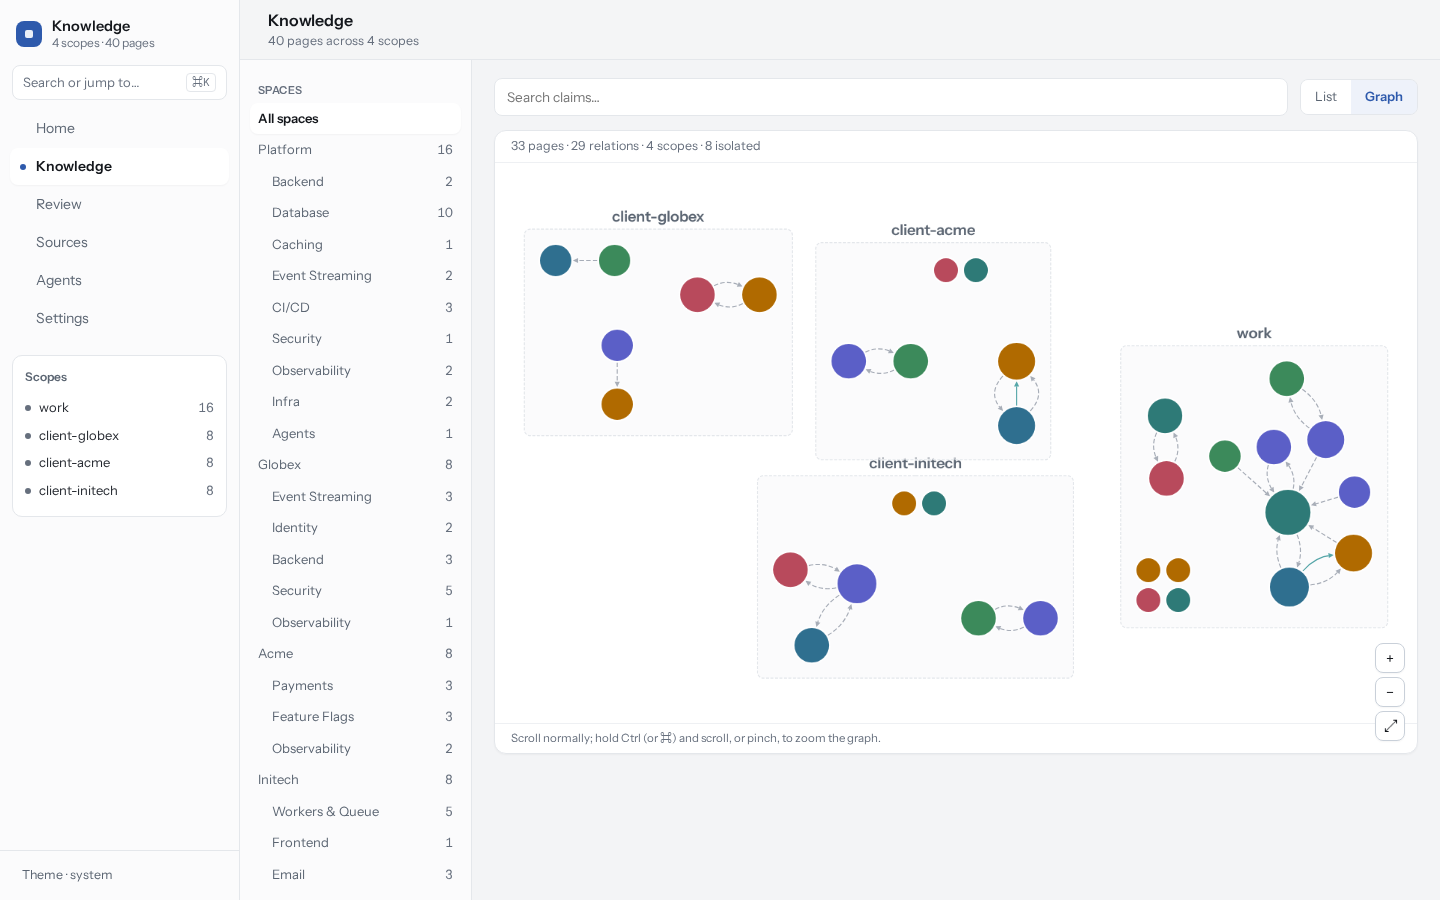
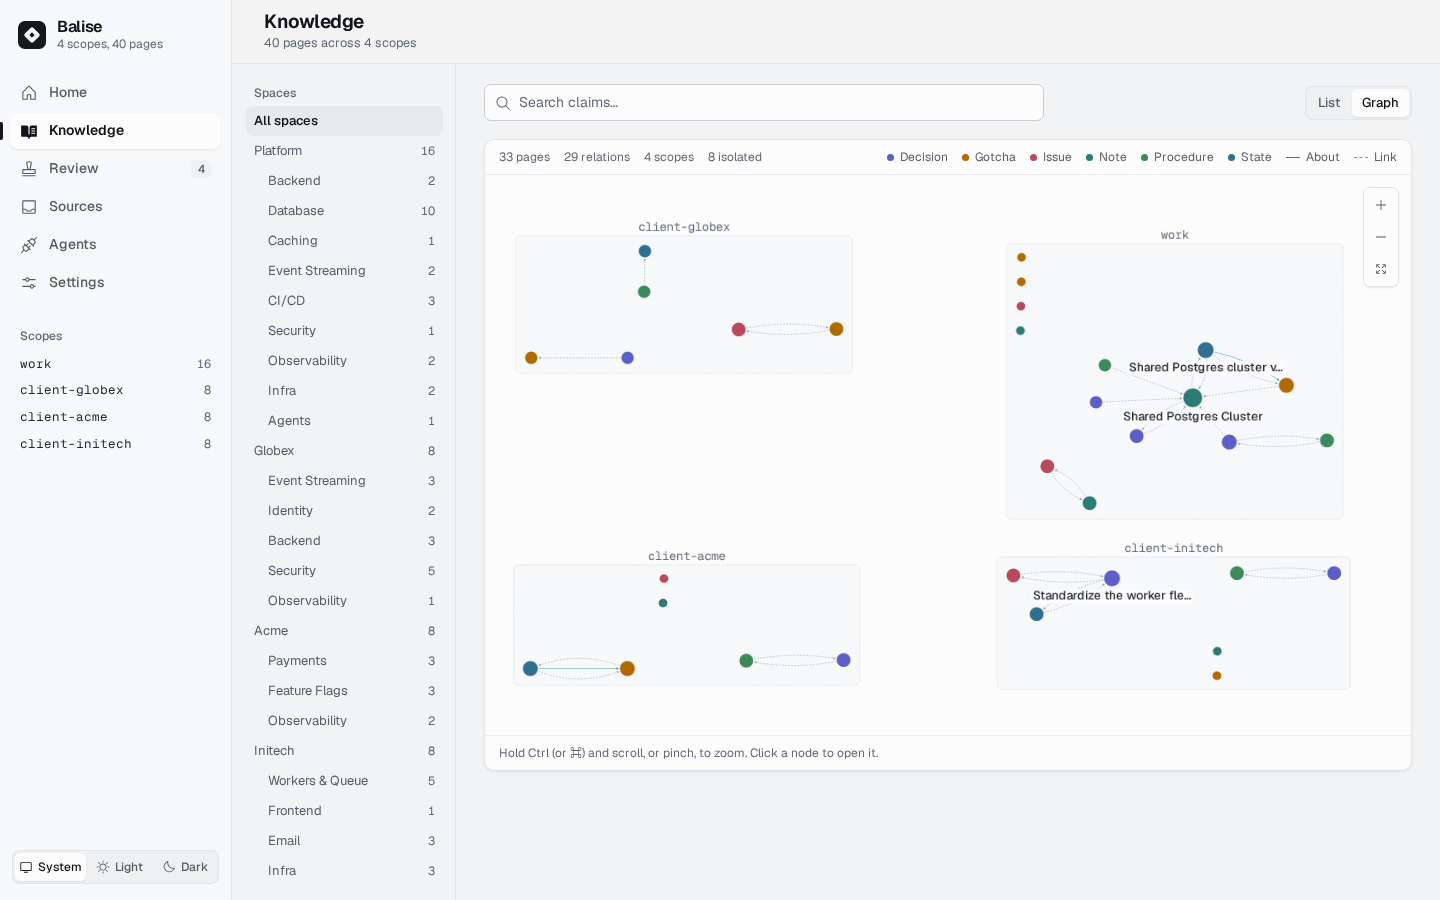
docs: regenerate README media for the redesigned UI
All screenshots and both GIFs recaptured from the seeded demo vault.
The review GIF now keeps the proposal on screen before Accept: with a
single click event, screencli trimmed everything before it as idle, so
the clip opened on the queue already advanced. Alt text updated to the
new layouts, and the tour alt text now names the query it actually runs.

diff --git a/README.md b/README.md
@@ -14,7 +14,7 @@ Your notes are markdown files in a git repo. Balise indexes them into Postgres, 
 AI agents over MCP with per-agent scoping, and gives you a web UI to review what the agents want
 to change — before anything is written.
 
-<img src="docs/media/tour.gif" alt="Searching claims for 'failover', opening the matching page in the reader, then switching to the relation graph" width="800">
+<img src="docs/media/tour.gif" alt="Asking 'cannot log in after group change' in plain words, opening the top matching page in the reader, then switching to the relation graph and zooming" width="800">
 
 </div>
 
@@ -69,12 +69,12 @@ byte for byte.
 
 <table>
 <tr>
-<td width="50%"><img src="docs/media/home.png" alt="The Home screen: a greeting, four claim proposals waiting for a decision grouped by space, two lint findings needing attention, and a list of recently changed pages"></td>
-<td width="50%"><img src="docs/media/knowledge.png" alt="The Knowledge screen: a space tree with per-space page counts on the left and claim-level search results grouped by page type"></td>
+<td width="50%"><img src="docs/media/home.png" alt="The Home screen: a greeting and one-line summary, four claim proposals waiting for a decision grouped by scope, one lint finding needing attention, and a timeline of recently changed pages"></td>
+<td width="50%"><img src="docs/media/knowledge.png" alt="The Knowledge screen: a space tree with per-space page counts on the left and pages grouped by type, each row marked with its type colour"></td>
 </tr>
 <tr>
-<td><img src="docs/media/graph.png" alt="The relation graph: one panel per scope, each laid out as a radial spanning tree, with pages having no relations shelved separately below"></td>
-<td><img src="docs/media/reader.png" alt="A page open in the full-width reading view, with its claims listed above the body text and its metadata and backlinks below"></td>
+<td><img src="docs/media/graph.png" alt="The relation graph: one dashed box per scope holding its pages as nodes coloured by type, relations as edges, and a legend of types and relation kinds above"></td>
+<td><img src="docs/media/reader.png" alt="A page open in the reading view: numbered claims above the body text, relations and backlinks below it, and owner, scope and tags in a side column"></td>
 </tr>
 </table>
 
